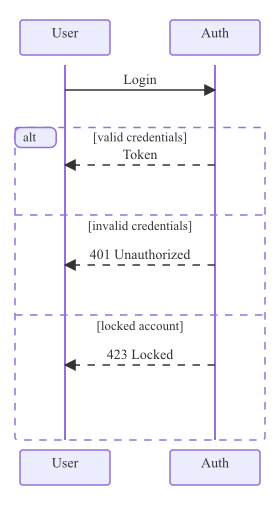
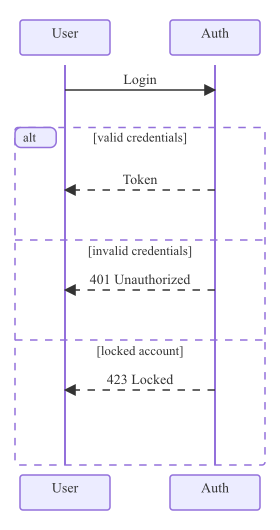
sequence: full-row block header so b.Label clears first message (#137)
Non-rect block tabs ("alt", "loop", "par", "opt", "critical")
center their bracket condition label (b.Label, e.g. [Fan out
lookups]) inside the tab row at startY+1.5 baseline. The first
message's above-line label rendered at startY+19 was only ~1.5 px
below — visually crammed against the tab text.

Bump blockHeaderGap from defaultRowHeight/2 to defaultRowHeight for
non-rect blocks, and add a matching defaultRowHeight/2 to extraLabel
Height per non-rect block so layout reserves the additional space.
Rect blocks keep the half-row header since they have no tab/label.

diff --git a/pkg/renderer/sequence/renderer.go b/pkg/renderer/sequence/renderer.go
@@ -357,6 +357,13 @@ func extraLabelHeight(items []diagram.SequenceItem, fontSize float64) float64 {
 		case item.Note != nil && item.Note.Text != "":
 			extra += extraLinesHeight(item.Note.Text, fontSize)
 		case item.Block != nil:
+			// Non-rect blocks consume a full-row header so their
+			// b.Label inside the kind tab clears the first message
+			// label below — that's defaultRowHeight/2 more than the
+			// "1" countBlockRows reserves.
+			if item.Block.Kind != diagram.BlockKindRect {
+				extra += defaultRowHeight / 2
+			}
 			extra += extraLabelHeight(item.Block.Items, fontSize)
 			for _, br := range item.Block.Branches {
 				extra += extraLabelHeight(br.Items, fontSize)

diff --git a/pkg/renderer/sequence/messages.go b/pkg/renderer/sequence/messages.go
@@ -308,7 +308,13 @@ func (mr *messageRenderer) renderNote(n diagram.Note) []any {
 func (mr *messageRenderer) renderBlock(b diagram.Block, depth int) []any {
 	startY := mr.curY
 
-	blockHeaderGap := defaultRowHeight / 2
+	// Full row of header so the b.Label inside the kind tab clears
+	// the first message's above-line label. Rect blocks have no tab
+	// or label, so a half-row gap is enough.
+	blockHeaderGap := defaultRowHeight
+	if b.Kind == diagram.BlockKindRect {
+		blockHeaderGap = defaultRowHeight / 2
+	}
 	mr.curY += blockHeaderGap
 
 	content := mr.renderItems(b.Items, false, depth+1)
